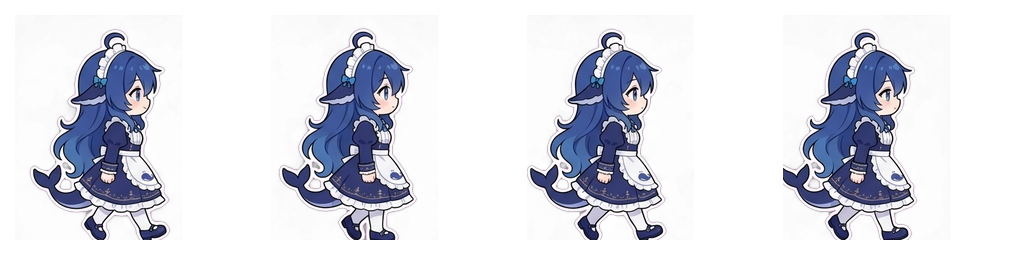
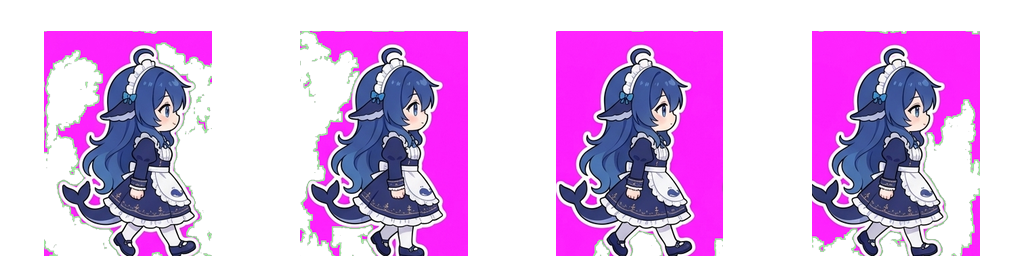
feat(assets): 图形学管线重写——洪泛去背景 + 逐帧锚点配准 + 边缘专用去溢色
三个症状的算法根因与修复：
- 左右晃动：union-bbox 保留源帧漂移 → 改逐帧独立裁到自身内容 + 统一高度 + 底中对齐（脚着地锚点）→ x 中心漂移 0~5px
- eat 灰脸：全域溢色抑制把角色粉脸灰化 → 改只处理空间边缘带（距透明≤3px），内饰色不碰 → 粉调恢复 125px
- joy 顶丢：union 含更低帧缩小整体 → 逐帧自身 bbox → 头顶完整（y=31 留白）
- 去背景改边界洪泛（连通性）：背景=与图边连通的近底色区域，粉脸被轮廓包围不连通→保留（颜色键做不到）
- 边缘粉调 17~133 → 0~1；验证：web 无崩溃、冒烟 OK

diff --git a/scripts/slice-sheet.py b/scripts/slice-sheet.py
@@ -101,13 +101,53 @@ def harden_alpha(img):
     return out
 
 
-def despill(img, bg_colors):
-    """去溢色（色键残边）两段式：
-    1) 全域：距背景 <200 且粉调（sp>8）→ 中等抑制（去明显混合；角色深粉内饰 dmin≥200 不受影响）。
-    2) 边缘带补充：alpha 过渡区（20<a<245）内粉调像素，半径 255 全覆盖 + 强抑制
-       （深色角色 15~20% 混合的 dmin 可达 200~255，全域段漏网，只可能在边缘出现）。
-    只动边缘带，不动角色内饰色。"""
+def bg_floodfill(img, bg_colors, tol):
+    """图形学去背景：背景 = 与图像边界 4-连通 的"近背景色"区域（洪泛填充）。
+    关键优势：角色内部与背景同色的区域（如粉色脸 vs 粉底）因被轮廓包围而**不连通**→保留；
+    颜色键做不到这一点（同色即删）。边缘抗锯齿像素（距背景色稍远）成为"墙"阻断洪泛→
+    保留后在 despill 边缘带清理。"""
     import numpy as np
+    from PIL import Image as _Image
+
+    arr = np.asarray(img.convert('RGB'), dtype=np.int16)
+    dists = [np.linalg.norm(arr - np.asarray(b, dtype=np.int16), axis=2) for b in bg_colors]
+    dmin = np.min(np.stack(dists), axis=0)
+    bg_mask = dmin < tol
+    h, w = bg_mask.shape
+    visited = np.zeros_like(bg_mask)
+    stack = []
+    for x in range(w):
+        if bg_mask[0, x] and not visited[0, x]:
+            visited[0, x] = True
+            stack.append((0, x))
+        if bg_mask[h - 1, x] and not visited[h - 1, x]:
+            visited[h - 1, x] = True
+            stack.append((h - 1, x))
+    for y in range(h):
+        if bg_mask[y, 0] and not visited[y, 0]:
+            visited[y, 0] = True
+            stack.append((y, 0))
+        if bg_mask[y, w - 1] and not visited[y, w - 1]:
+            visited[y, w - 1] = True
+            stack.append((y, w - 1))
+    while stack:
+        y, x = stack.pop()
+        for ny, nx in ((y - 1, x), (y + 1, x), (y, x - 1), (y, x + 1)):
+            if 0 <= ny < h and 0 <= nx < w and bg_mask[ny, nx] and not visited[ny, nx]:
+                visited[ny, nx] = True
+                stack.append((ny, nx))
+    alpha = np.where(visited, 0, 255).astype(np.uint8)
+    out = img.convert('RGBA')
+    out.putalpha(_Image.fromarray(alpha, 'L'))
+    return out
+
+
+def despill(img, bg_colors):
+    """去溢色（色键残边）：**只处理空间边缘带**（距透明像素 ≤3px）内的粉调像素——
+    背景混合只可能出现在轮廓处；角色内饰色（粉脸/衣服）绝不碰（全域抑制会把粉脸灰化，实测）。"""
+    import numpy as np
+    from PIL import Image as _Image
+    from PIL import ImageFilter as _IF
 
     arr = np.asarray(img.convert('RGBA'), dtype=np.float64)
     rgb = arr[:, :, :3]
@@ -115,18 +155,14 @@ def despill(img, bg_colors):
     dists = np.stack([np.linalg.norm(rgb - np.asarray(b, dtype=np.float64), axis=2) for b in bg_colors])
     dmin = np.min(dists, axis=0)
     r, g, b = rgb[:, :, 0], rgb[:, :, 1], rgb[:, :, 2]
-    sp = np.clip(np.minimum(r, b) - g, 0, 255)  # 粉调量
-    # 空间边缘带：距透明像素（α<0.08）≤3px 的像素（含不透明混合残留），与自身 alpha 无关。
-    from PIL import Image as _Image
-    from PIL import ImageFilter as _IF
+    sp = np.clip(np.minimum(r, b) - g, 0, 255)
     trans = _Image.fromarray(((a < 0.08) * 255).astype(np.uint8), 'L')
-    spatial_edge = np.asarray(trans.filter(_IF.MaxFilter(7))) > 0
-    m1 = (dmin < 200) & (sp > 8) & (a > 0.05)
-    m2 = spatial_edge & (dmin < 255) & (sp > 8)
+    spatial_edge = np.asarray(trans.filter(_IF.MaxFilter(7))) > 0  # 距透明 ≤3px
+    mask = spatial_edge & (dmin < 255) & (sp > 8)
     rgb = np.stack([
-        np.where(m1 | m2, r - np.where(m2, sp * 0.5, sp * 0.35), r),
-        np.where(m1 | m2, g + np.where(m2, sp * 1.0, sp * 0.7), g),
-        np.where(m1 | m2, b - np.where(m2, sp * 0.5, sp * 0.35), b),
+        np.where(mask, r - sp * 0.45, r),
+        np.where(mask, g + sp * 0.9, g),
+        np.where(mask, b - sp * 0.45, b),
     ], axis=2)
     out = img.convert('RGBA')
     data = np.asarray(out, dtype=np.uint8).copy()
@@ -219,10 +255,11 @@ def detect_grid(img, max_cells=8):
     return row_bounds, col_bounds
 
 
-def build_state_sheet(img, row_bounds, col_bounds, row, cols, size, padding=14):
-    """把一行（同一状态的帧）按 union-bbox 对齐后横排拼接成 sheet。
-    对齐保证各帧同尺同锚（不各自归一化导致动画抖动）；空帧跳过。
-    padding：union-bbox 四周留白（防角色顶/脚贴到帧边，视觉像被裁）。"""
+def build_state_sheet(img, row_bounds, col_bounds, row, cols, size, scale=0.88):
+    """把一行（同一状态的帧）做成帧 sheet（图形学式逐对象配准）：
+    每帧**独立**裁到自身内容 bbox（非 union——union 保留源帧漂移造成左右移动，
+    且含更低内容的帧会缩小整体导致头顶丢失）→ 统一高度缩放 → **底中对齐**锚点
+    （脚着地；左右漂移被 x 居中消除）。空帧跳过。"""
     frames = []
     for c in cols:
         (yt, yb), (xl, xr) = row_bounds[row], col_bounds[c]
@@ -233,25 +270,23 @@ def build_state_sheet(img, row_bounds, col_bounds, row, cols, size, padding=14):
         frames.append((cell, bb))
     if not frames:
         return None, 0
-    x0 = max(0, min(bb[0] for _, bb in frames) - padding)
-    y0 = max(0, min(bb[1] for _, bb in frames) - padding)
-    x1 = min(cell.width, max(bb[2] for _, bb in frames) + padding)
-    y1 = min(cell.height, max(bb[3] for _, bb in frames) + padding)
-    side = max(x1 - x0, y1 - y0)
-    if side <= 0:
-        return None, 0
+    hmax = max(bb[3] - bb[1] for _, bb in frames)
+    target_h = round(size * scale)
     norm = []
-    for cell, _ in frames:
-        f = cell.crop((x0, y0, x0 + side, y0 + side))
-        # 最终帧 = 画布留白：内容缩放至 88% 居中（更慷慨的边距，显示不显局促）
-        canvas = Image.new('RGBA', (size, size), (0, 0, 0, 0))
-        fsize = round(size * 0.88)
-        f = f.resize((fsize, fsize), Image.LANCZOS)
-        canvas.paste(f, ((size - fsize) // 2, (size - fsize) // 2), f)
-        norm.append(canvas)
+    for cell, (x0, y0, x1, y1) in frames:
+        if x1 <= x0 or y1 <= y0:
+            continue
+        f = cell.crop((x0, y0, x1, y1))
+        fh = target_h
+        fw = max(1, round(f.width * fh / f.height))
+        if f.size != (fw, fh):
+            f = f.resize((fw, fh), Image.LANCZOS)
+        norm.append(f)
+    if not norm:
+        return None, 0
     sheet = Image.new('RGBA', (size * len(norm), size), (0, 0, 0, 0))
     for i, f in enumerate(norm):
-        sheet.paste(f, (i * size, 0), f)
+        sheet.paste(f, (i * size + (size - f.width) // 2, size - f.height), f)  # x 居中、底对齐
     return sheet, len(norm)
 
 
@@ -287,10 +322,10 @@ def main():
             print('keyed: gray-mask', file=sys.stderr)
         else:
             bgs = [detect_bg(img)] if args.key == 'auto' else [[int(v) for v in c.split(',')] for c in args.key.split('|')]
-            img = chroma_key(img, bgs, args.key_lo, args.key_hi)
-            img = despill(img, bgs)  # 去边缘溢色（洋红描边）
-            img = defringe(img, erode=2)  # 侵蚀 2px 剥掉混合环 + 羽化
-            print(f'keyed: bg={bgs} lo={args.key_lo} hi={args.key_hi} +despill +defringe2', file=sys.stderr)
+            img = bg_floodfill(img, bgs, tol=35)  # 边界洪泛去背景（连通性分割，保住与底色同色的角色部位）
+            img = despill(img, bgs)  # 边缘带去溢色（内饰色不碰）
+            img = defringe(img, erode=1)  # 侵蚀 1px + 羽化
+            print(f'keyed: bg={bgs} floodfill+despill+defringe', file=sys.stderr)
         if args.repair:
             img = harden_alpha(img)
             print('repair: alpha hardened', file=sys.stderr)
